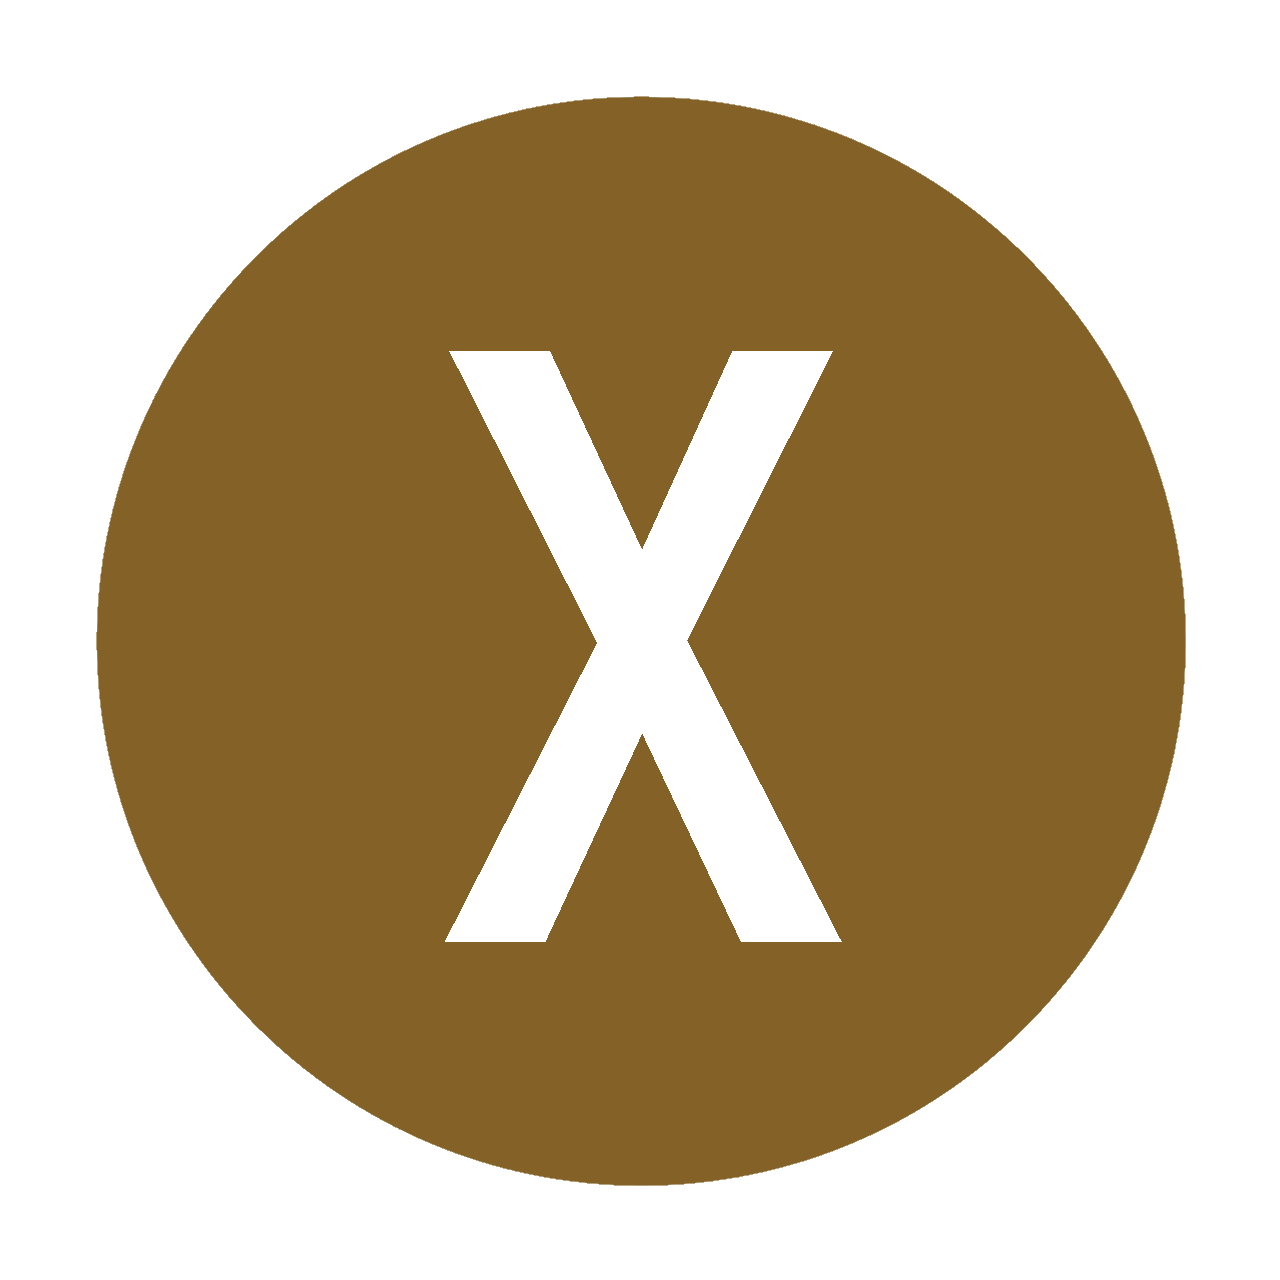
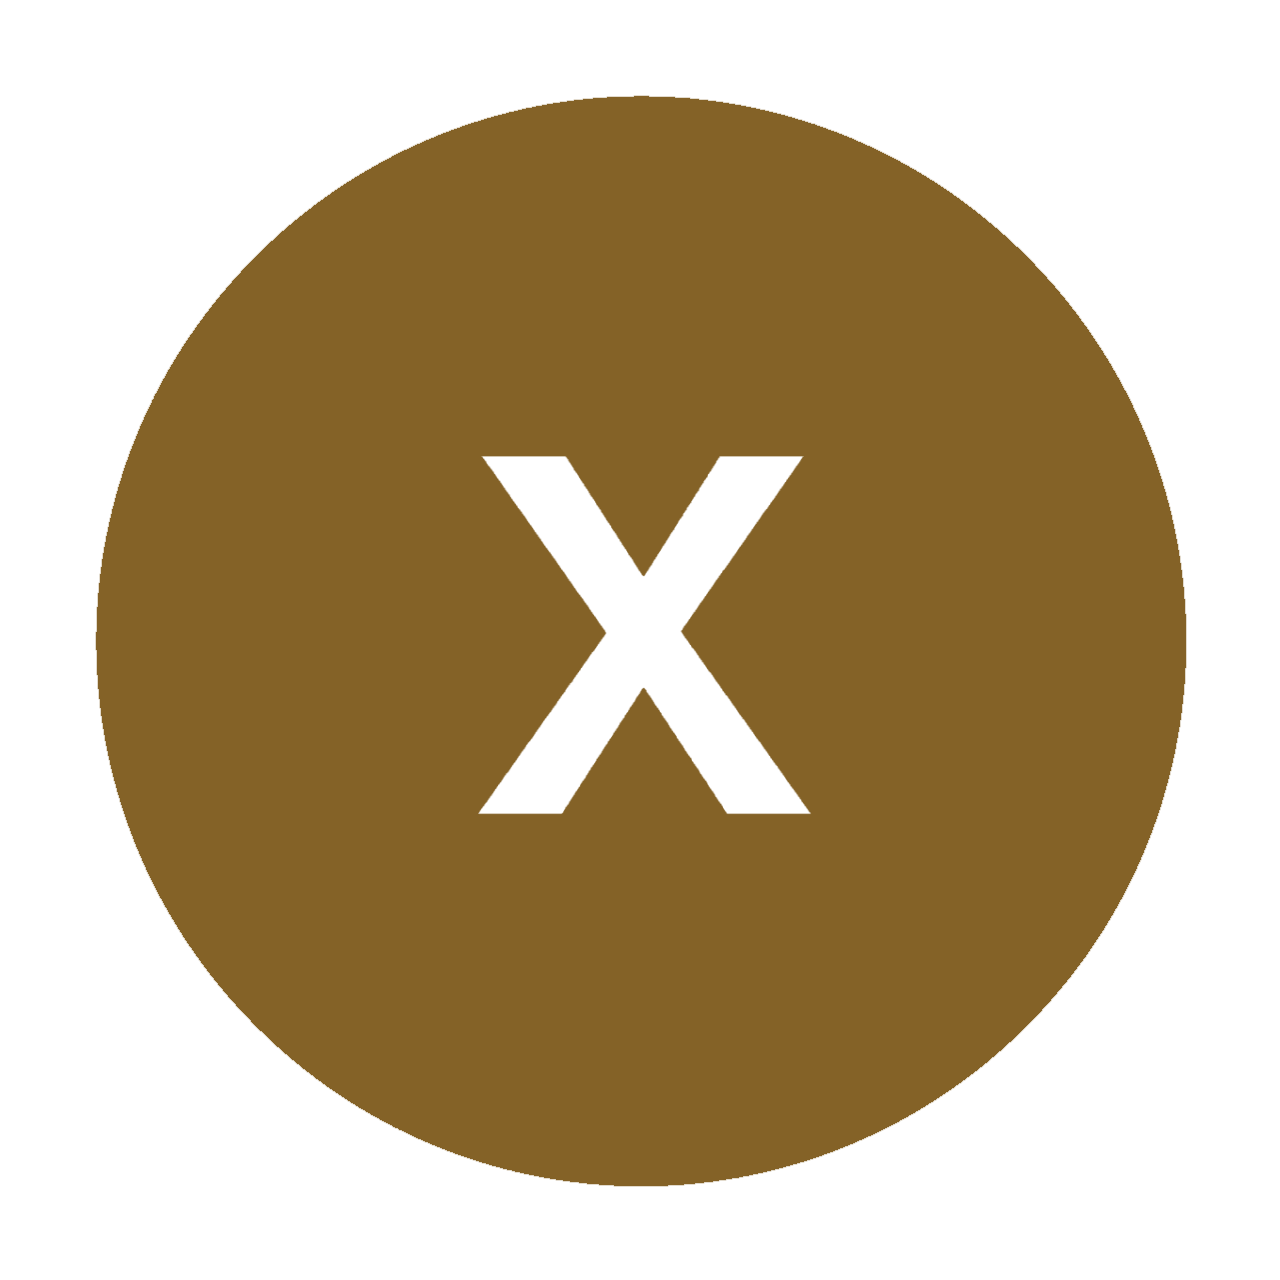
btn

diff --git a/css/style.css b/css/style.css
@@ -407,7 +407,7 @@ body > div.write_me > h2:nth-child(3) {
     padding: 20px 19px;
    -webkit-animation: rotate-center 1s ease-in-out ;
 	        animation: rotate-center 1s ease-in-out ;
-
+cursor: pointer;
     opacity: 0.9;
 	
 }
@@ -418,17 +418,19 @@ body > div.write_me > h2:nth-child(3) {
 	position: fixed;
     bottom: 0;
     right: 0;
+	cursor: pointer;
     padding: 20px 29px;
    -webkit-animation: rotate-center 1s ease-in-out ;
 	        animation: rotate-center 1s ease-in-out ;
-
+z-index: 10101;
     opacity: 0.9;
 }
 
 .button-inner-item-telegram {
 	display:none;
 	position: fixed;
-    bottom: 70px;
+	z-index: 10101;
+    bottom: 50px;
     right: 0;
     padding: 40px 25px;
       opacity: 0.9;
@@ -439,12 +441,24 @@ body > div.write_me > h2:nth-child(3) {
 .button-inner-item-viber {
 	display:none;
 	position: fixed;
-    bottom: 150px;
+    bottom: 130px;
     right: 0;
     padding: 40px 25px;
+	z-index: 10101;
       opacity: 0.9;
 	  -webkit-animation: slide-top 0.5s cubic-bezier(0.250, 0.460, 0.450, 0.940) both;
 	        animation: slide-top 0.5s cubic-bezier(0.250, 0.460, 0.450, 0.940) both;
+}
+
+.backgroundcolor {
+	display:none;
+	position: fixed;
+	top: 0;
+    left: 0;
+	z-index: 10100;
+	width: 100%;
+	height: 100%;
+	background-color: #f5e0b7d9;
 }
 
 @-webkit-keyframes slide-top {

diff --git a/about_us.html b/about_us.html
@@ -211,16 +211,16 @@
  <img src="img/dialog.png" width="75" height="75" alt="dialog">
 						</div>
 						<div id="btn_contacts-close" class="button-inner-item-close">
- <img src="img/close.png" width="75" height="75" alt="dialog">
+ <img src="img/close.png" width="50" height="50" alt="dialog">
 						</div>
 						
 						<div id="btn_contacts-viber" class="button-inner-item-telegram">
 						  <a target="_blank" href="https://web.telegram.org/#/im?p=@stmtrade_bot"> <img src="img/telegram.png" width="60" height="60" alt="telegram"> </a>
 						  </div>
 						  <div id="btn_contacts-viber" class="button-inner-item-viber">
-						   <a target="_blank" href="viber://pa?chatURI=stmtrade"> <img src="img/viber.png" width="60" height="60" alt="viber">
+						   <a target="_blank" href="viber://pa?chatURI=stmtrade"> <img src="img/viber.png" width="60" height="60" alt="viber"> </a>
 						    </div>
-
+<div class = "backgroundcolor"></div>
     <!-- Optional JavaScript -->
     <!-- jQuery first, then Popper.js, then Bootstrap JS -->
     <script src="https://code.jquery.com/jquery-3.4.1.slim.min.js" integrity="sha384-J6qa4849blE2+poT4WnyKhv5vZF5SrPo0iEjwBvKU7imGFAV0wwj1yYfoRSJoZ+n" crossorigin="anonymous"></script>

diff --git a/contacts.html b/contacts.html
@@ -203,9 +203,12 @@
 						<div id="btn_contacts-viber" class="button-inner-item-telegram">
 						  <a target="_blank" href="https://web.telegram.org/#/im?p=@stmtrade_bot"> <img src="img/telegram.png" width="60" height="60" alt="telegram"> </a>
 						  </div>
+						  
 						  <div id="btn_contacts-viber" class="button-inner-item-viber">
-						   <a target="_blank" href="viber://pa?chatURI=stmtrade"> <img src="img/viber.png" width="60" height="60" alt="viber">
+						   <a target="_blank" href="viber://pa?chatURI=stmtrade"> <img src="img/viber.png" width="60" height="60" alt="viber"></a>
 						    </div>
+							
+							<div class = "backgroundcolor"></div>
   
 
     <!-- Optional JavaScript -->

diff --git a/index.html b/index.html
@@ -256,8 +256,9 @@
 						  <a target="_blank" href="https://web.telegram.org/#/im?p=@stmtrade_bot"> <img src="img/telegram.png" width="60" height="60" alt="telegram"> </a>
 						  </div>
 						  <div id="btn_contacts-viber" class="button-inner-item-viber">
-						   <a target="_blank" href="viber://pa?chatURI=stmtrade"> <img src="img/viber.png" width="60" height="60" alt="viber">
+						   <a target="_blank" href="viber://pa?chatURI=stmtrade"> <img src="img/viber.png" width="60" height="60" alt="viber">  </a>
 						    </div>
+							<div class = "backgroundcolor"></div>
 
     <!-- Optional JavaScript -->
     <!-- jQuery first, then Popper.js, then Bootstrap JS -->

diff --git a/js/main.js b/js/main.js
@@ -6,12 +6,14 @@ $(document).ready( function() {
 		$('.button-inner-item').css('display', 'none');	
 		$('.button-inner-item-close').css('display', 'block');
 		$('.button-inner-item-telegram, .button-inner-item-viber').css('display', 'block');
+		$('.backgroundcolor').css('display', 'block');
 			});
 			
 			$('#btn_contacts-close').click( function() {
 		$('.button-inner-item').css('display', 'block');	
 		$('.button-inner-item-close').css('display', 'none');
 		$('.button-inner-item-telegram, .button-inner-item-viber').css('display', 'none');
+			$('.backgroundcolor').css('display', 'none');
 			});
 
 	
